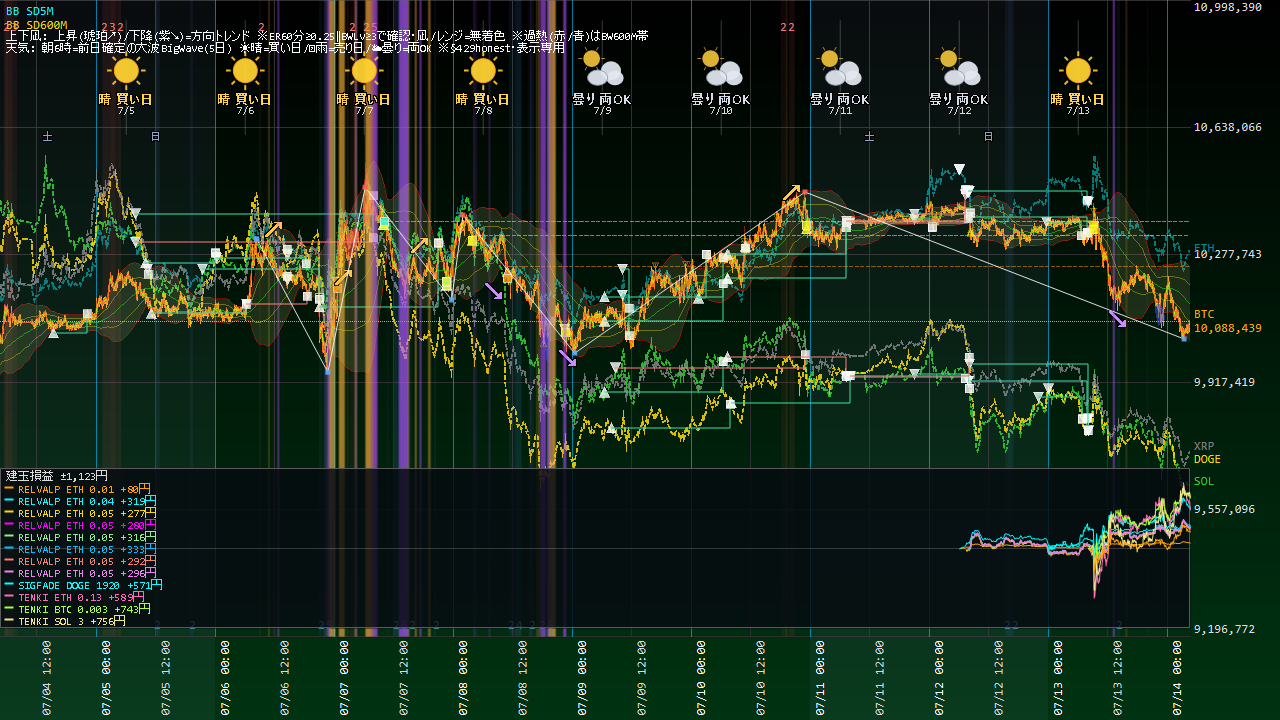
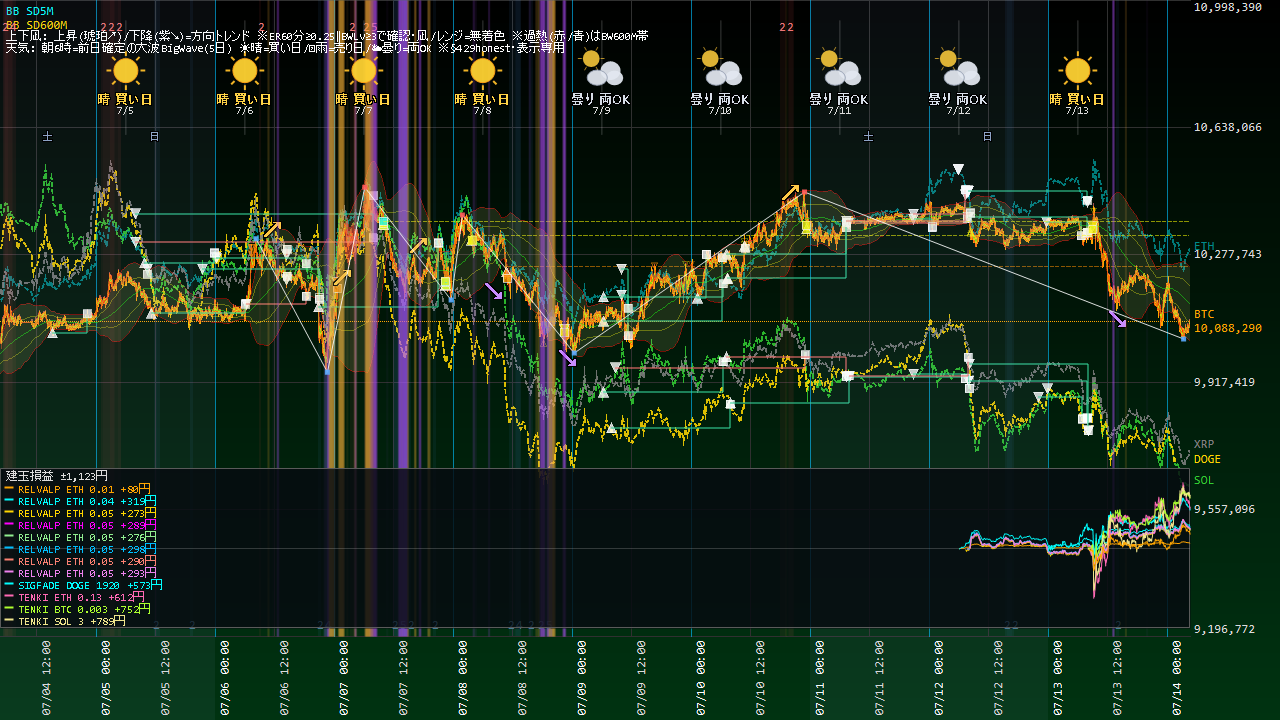
Coin100S 運用状況更新 07-14 04:47

diff --git a/coin100s-795hc4jfv8/status.html b/coin100s-795hc4jfv8/status.html
@@ -14,23 +14,23 @@ a{color:#60a5fa;text-decoration:none} a:hover{text-decoration:underline}
 .meta{color:#94a3b8;font-size:13px}</style>
 <script>setTimeout(function(){location.replace(location.pathname+"?t="+Date.now());},300000);</script></head><body>
 <h1>Coin100S 運用状況</h1>
-<p class="meta">スナップショット: 2026-07-14 04:40:49 / ページ生成: 2026-07-14 04:41:06(自動リロード・最新化) / <a href="index.html">目次へ</a></p>
+<p class="meta">スナップショット: 2026-07-14 04:46:49 / ページ生成: 2026-07-14 04:47:07(自動リロード・最新化) / <a href="index.html">目次へ</a></p>
 <div class="cards">
 <div class="card">建玉数<div class="v">13</div></div>
 <div class="card">本日損益<div class="v pos">+1,376円</div></div>
-<div class="card">評価損益<div class="v pos">+5,196円</div></div>
+<div class="card">評価損益<div class="v pos">+4,988円</div></div>
 </div>
 <h2>資産推移(直近30日)</h2>
-<img src="status_equity.png?t=0441" alt="equity">
+<img src="status_equity.png?t=0447" alt="equity">
 <h2>取引チャート(直近24h)</h2>
-<img src="status_chart.png?t=0441" alt="chart">
+<img src="status_chart.png?t=0447" alt="chart">
 <h2>建玉一覧</h2>
-<table><tr><th>銘柄</th><th>側</th><th>数量</th><th>建値</th><th>含損益</th><th>レッグ</th></tr><tr><td>BTC_JPY</td><td>SELL</td><td>0.003</td><td>@10,335,826</td><td>+754円</td><td>TENKI5D_REV_BTC</td></tr><tr><td>DOGE_JPY</td><td>SELL</td><td>1590</td><td>@12</td><td>+235円</td><td>TENKI5D_REV_DOGE</td></tr><tr><td>DOGE_JPY</td><td>SELL</td><td>1920</td><td>@12</td><td>+597円</td><td>SIGFADE_DOGE</td></tr><tr><td>ETH_JPY</td><td>SELL</td><td>0.13</td><td>@292,021</td><td>+626円</td><td>TENKI5D_REV_ETH</td></tr><tr><td>ETH_JPY</td><td>SELL</td><td>0.05</td><td>@293,174</td><td>+298円</td><td>RELVALP_SELL</td></tr><tr><td>ETH_JPY</td><td>SELL</td><td>0.05</td><td>@293,100</td><td>+295円</td><td>RELVALP_SELL</td></tr><tr><td>ETH_JPY</td><td>SELL</td><td>0.05</td><td>@293,263</td><td>+303円</td><td>RELVALP_SELL</td></tr><tr><td>ETH_JPY</td><td>SELL</td><td>0.05</td><td>@293,130</td><td>+296円</td><td>RELVALP_SELL</td></tr><tr><td>ETH_JPY</td><td>SELL</td><td>0.05</td><td>@293,082</td><td>+294円</td><td>RELVALP_SELL</td></tr><tr><td>ETH_JPY</td><td>SELL</td><td>0.05</td><td>@292,798</td><td>+279円</td><td>RELVALP_SELL</td></tr><tr><td>ETH_JPY</td><td>SELL</td><td>0.04</td><td>@295,461</td><td>+330円</td><td>RELVALP_SELL</td></tr><tr><td>ETH_JPY</td><td>SELL</td><td>0.01</td><td>@295,473</td><td>+82円</td><td>RELVALP_SELL</td></tr><tr><td>SOL_JPY</td><td>SELL</td><td>3</td><td>@12,420</td><td>+807円</td><td>TENKI5D_REV_SOL</td></tr></table>
+<table><tr><th>銘柄</th><th>側</th><th>数量</th><th>建値</th><th>含損益</th><th>レッグ</th></tr><tr><td>BTC_JPY</td><td>SELL</td><td>0.003</td><td>@10,335,826</td><td>+740円</td><td>TENKI5D_REV_BTC</td></tr><tr><td>DOGE_JPY</td><td>SELL</td><td>1590</td><td>@12</td><td>+235円</td><td>TENKI5D_REV_DOGE</td></tr><tr><td>DOGE_JPY</td><td>SELL</td><td>1920</td><td>@12</td><td>+597円</td><td>SIGFADE_DOGE</td></tr><tr><td>ETH_JPY</td><td>SELL</td><td>0.13</td><td>@292,021</td><td>+574円</td><td>TENKI5D_REV_ETH</td></tr><tr><td>ETH_JPY</td><td>SELL</td><td>0.05</td><td>@293,174</td><td>+278円</td><td>RELVALP_SELL</td></tr><tr><td>ETH_JPY</td><td>SELL</td><td>0.05</td><td>@293,100</td><td>+274円</td><td>RELVALP_SELL</td></tr><tr><td>ETH_JPY</td><td>SELL</td><td>0.05</td><td>@293,263</td><td>+283円</td><td>RELVALP_SELL</td></tr><tr><td>ETH_JPY</td><td>SELL</td><td>0.05</td><td>@293,130</td><td>+276円</td><td>RELVALP_SELL</td></tr><tr><td>ETH_JPY</td><td>SELL</td><td>0.05</td><td>@293,082</td><td>+273円</td><td>RELVALP_SELL</td></tr><tr><td>ETH_JPY</td><td>SELL</td><td>0.05</td><td>@292,798</td><td>+259円</td><td>RELVALP_SELL</td></tr><tr><td>ETH_JPY</td><td>SELL</td><td>0.04</td><td>@295,461</td><td>+314円</td><td>RELVALP_SELL</td></tr><tr><td>ETH_JPY</td><td>SELL</td><td>0.01</td><td>@295,473</td><td>+78円</td><td>RELVALP_SELL</td></tr><tr><td>SOL_JPY</td><td>SELL</td><td>3</td><td>@12,420</td><td>+807円</td><td>TENKI5D_REV_SOL</td></tr></table>
 <h2>実現決済履歴(直近15件・OrderId単位)</h2>
 <table><tr><th>決済時刻</th><th>レッグ</th><th>銘柄</th><th>実現損益</th></tr><tr><td>07-13 09:06</td><td>BW10M3_5M</td><td>BTC</td><td class="pos">+17円</td></tr><tr><td>07-13 08:12</td><td>TENKI5D_REV_DOGE</td><td>DOGE</td><td class="pos">+408円</td></tr><tr><td>07-13 08:03</td><td>TENKI5D_REV_SOL</td><td>SOL</td><td class="pos">+15円</td></tr><tr><td>07-13 08:03</td><td>TENKI5D_REV_BTC</td><td>BTC</td><td class="pos">+84円</td></tr><tr><td>07-13 08:03</td><td>TENKI5D_REV_SOL</td><td>SOL</td><td class="pos">+454円</td></tr><tr><td>07-13 08:03</td><td>TENKI5D_REV_ETH</td><td>ETH</td><td class="pos">+111円</td></tr><tr><td>07-13 08:03</td><td>TENKI5D_REV_BTC</td><td>BTC</td><td class="pos">+40円</td></tr><tr><td>07-13 07:03</td><td>SIGFADE_SOL</td><td>SOL</td><td class="pos">+169円</td></tr><tr><td>07-13 06:51</td><td>SIGFADE_BTC</td><td>BTC</td><td class="pos">+78円</td></tr><tr><td>07-12 08:25</td><td>SIGFADE_ETH</td><td>ETH</td><td class="neg">-11円</td></tr><tr><td>07-12 08:10</td><td>SIGFADE_SOL</td><td>SOL</td><td class="pos">+109円</td></tr><tr><td>07-12 08:09</td><td>TENKI5D_REV_DOGE</td><td>DOGE</td><td class="neg">-67円</td></tr><tr><td>07-12 07:55</td><td>TENKI5D_REV_BTC</td><td>BTC</td><td class="neg">-31円</td></tr><tr><td>07-12 07:27</td><td>TENKI5D_REV_ETH</td><td>ETH</td><td class="neg">-232円</td></tr><tr><td>07-12 07:26</td><td>TENKI5D_REV_SOL</td><td>SOL</td><td class="pos">+15円</td></tr></table>
 <h2>本取引日の実取引(6:00起点)</h2>
 <table><tr><th>時刻</th><th>種別</th><th>側</th><th>銘柄</th><th>数量</th><th>指値</th></tr><tr><td>06:51:04</td><td>決済</td><td>BUY</td><td>BTC_JPY</td><td>0.002</td><td>10,362,705</td></tr><tr><td>07:03:04</td><td>決済</td><td>BUY</td><td>SOL_JPY</td><td>1.8</td><td>12,464</td></tr><tr><td>07:03:05</td><td>決済</td><td>BUY</td><td>SOL_JPY</td><td>1.8</td><td>12,464</td></tr><tr><td>08:03:03</td><td>決済</td><td>BUY</td><td>BTC_JPY</td><td>0.001</td><td>10,373,001</td></tr><tr><td>08:03:03</td><td>決済</td><td>BUY</td><td>SOL_JPY</td><td>2.9</td><td>12,464</td></tr><tr><td>08:03:03</td><td>決済</td><td>BUY</td><td>ETH_JPY</td><td>0.12</td><td>293,135</td></tr><tr><td>08:03:04</td><td>決済</td><td>BUY</td><td>BTC_JPY</td><td>0.001</td><td>10,373,001</td></tr><tr><td>08:03:05</td><td>決済</td><td>BUY</td><td>BTC_JPY</td><td>0.002</td><td>10,373,038</td></tr><tr><td>08:03:05</td><td>決済</td><td>BUY</td><td>SOL_JPY</td><td>0.1</td><td>12,463</td></tr><tr><td>08:03:05</td><td>決済</td><td>BUY</td><td>ETH_JPY</td><td>0.12</td><td>293,135</td></tr><tr><td>08:03:07</td><td>決済</td><td>BUY</td><td>BTC_JPY</td><td>0.002</td><td>10,373,038</td></tr><tr><td>08:03:08</td><td>決済</td><td>BUY</td><td>SOL_JPY</td><td>0.1</td><td>12,463</td></tr><tr><td>08:04:03</td><td>新規</td><td>SELL</td><td>BTC_JPY</td><td>0.003</td><td>10,331,748</td></tr><tr><td>08:04:03</td><td>新規</td><td>SELL</td><td>ETH_JPY</td><td>0.13</td><td>291,901</td></tr><tr><td>08:04:03</td><td>新規</td><td>SELL</td><td>SOL_JPY</td><td>3</td><td>12,414</td></tr><tr><td>08:04:04</td><td>新規</td><td>SELL</td><td>ETH_JPY</td><td>0.13</td><td>291,901</td></tr><tr><td>08:04:05</td><td>新規</td><td>SELL</td><td>SOL_JPY</td><td>3</td><td>12,414</td></tr><tr><td>08:12:03</td><td>決済</td><td>BUY</td><td>DOGE_JPY</td><td>1570</td><td>12</td></tr><tr><td>08:13:03</td><td>新規</td><td>SELL</td><td>DOGE_JPY</td><td>1590</td><td>11</td></tr><tr><td>09:05:34</td><td>新規</td><td>SELL</td><td>BTC_JPY</td><td>0.002</td><td>10,349,629</td></tr><tr><td>09:05:36</td><td>新規</td><td>SELL</td><td>BTC_JPY</td><td>0.002</td><td>10,349,629</td></tr></table>
 <h2>現在レジーム(3軸・§570c)</h2>
-<ul><li>アルト対BTC 5日: <b>-218bps</b>(アルト劣後=RELVAL順風)</li><li>BTC ER240m: <b>0.077</b>(閾値0.25→レンジ(fade順風/BWTRD逆風))</li><li>BTC実現ボラ240m: <b>4.73</b> bps/分</li></ul>
+<ul><li>アルト対BTC 5日: <b>-218bps</b>(アルト劣後=RELVAL順風)</li><li>BTC ER240m: <b>0.082</b>(閾値0.25→レンジ(fade順風/BWTRD逆風))</li><li>BTC実現ボラ240m: <b>4.68</b> bps/分</li></ul>
 <hr><p class="meta">自動生成: tools/web_publish.py(§580・読み取り専用)。売買判断はアプリ本体。</p>
 </body></html>

diff --git a/coin100s-795hc4jfv8/index.html b/coin100s-795hc4jfv8/index.html
@@ -14,16 +14,16 @@ a{color:#60a5fa;text-decoration:none} a:hover{text-decoration:underline}
 .meta{color:#94a3b8;font-size:13px}</style>
 <script>setTimeout(function(){location.replace(location.pathname+"?t="+Date.now());},300000);</script></head><body>
 <h1>Coin100S ダッシュボード</h1>
-<p class="meta">スナップショット: 2026-07-14 04:40:49(自動リロード・最新化)</p>
+<p class="meta">スナップショット: 2026-07-14 04:46:49(自動リロード・最新化)</p>
 <div class="cards">
 <div class="card">建玉数<div class="v">13</div></div>
 <div class="card">本日損益<div class="v pos">+1,376円</div></div>
-<div class="card">評価損益<div class="v pos">+5,196円</div></div>
+<div class="card">評価損益<div class="v pos">+4,988円</div></div>
 </div>
 <h2>現在の建玉</h2>
-<table><tr><th>銘柄</th><th>側</th><th>数量</th><th>建値</th><th>含損益</th><th>レッグ</th></tr><tr><td>BTC_JPY</td><td>SELL</td><td>0.003</td><td>@10,335,826</td><td>+754円</td><td>TENKI5D_REV_BTC</td></tr><tr><td>DOGE_JPY</td><td>SELL</td><td>1590</td><td>@12</td><td>+235円</td><td>TENKI5D_REV_DOGE</td></tr><tr><td>DOGE_JPY</td><td>SELL</td><td>1920</td><td>@12</td><td>+597円</td><td>SIGFADE_DOGE</td></tr><tr><td>ETH_JPY</td><td>SELL</td><td>0.13</td><td>@292,021</td><td>+626円</td><td>TENKI5D_REV_ETH</td></tr><tr><td>ETH_JPY</td><td>SELL</td><td>0.05</td><td>@293,174</td><td>+298円</td><td>RELVALP_SELL</td></tr><tr><td>ETH_JPY</td><td>SELL</td><td>0.05</td><td>@293,100</td><td>+295円</td><td>RELVALP_SELL</td></tr><tr><td>ETH_JPY</td><td>SELL</td><td>0.05</td><td>@293,263</td><td>+303円</td><td>RELVALP_SELL</td></tr><tr><td>ETH_JPY</td><td>SELL</td><td>0.05</td><td>@293,130</td><td>+296円</td><td>RELVALP_SELL</td></tr><tr><td>ETH_JPY</td><td>SELL</td><td>0.05</td><td>@293,082</td><td>+294円</td><td>RELVALP_SELL</td></tr><tr><td>ETH_JPY</td><td>SELL</td><td>0.05</td><td>@292,798</td><td>+279円</td><td>RELVALP_SELL</td></tr><tr><td>ETH_JPY</td><td>SELL</td><td>0.04</td><td>@295,461</td><td>+330円</td><td>RELVALP_SELL</td></tr><tr><td>ETH_JPY</td><td>SELL</td><td>0.01</td><td>@295,473</td><td>+82円</td><td>RELVALP_SELL</td></tr><tr><td>SOL_JPY</td><td>SELL</td><td>3</td><td>@12,420</td><td>+807円</td><td>TENKI5D_REV_SOL</td></tr></table>
+<table><tr><th>銘柄</th><th>側</th><th>数量</th><th>建値</th><th>含損益</th><th>レッグ</th></tr><tr><td>BTC_JPY</td><td>SELL</td><td>0.003</td><td>@10,335,826</td><td>+740円</td><td>TENKI5D_REV_BTC</td></tr><tr><td>DOGE_JPY</td><td>SELL</td><td>1590</td><td>@12</td><td>+235円</td><td>TENKI5D_REV_DOGE</td></tr><tr><td>DOGE_JPY</td><td>SELL</td><td>1920</td><td>@12</td><td>+597円</td><td>SIGFADE_DOGE</td></tr><tr><td>ETH_JPY</td><td>SELL</td><td>0.13</td><td>@292,021</td><td>+574円</td><td>TENKI5D_REV_ETH</td></tr><tr><td>ETH_JPY</td><td>SELL</td><td>0.05</td><td>@293,174</td><td>+278円</td><td>RELVALP_SELL</td></tr><tr><td>ETH_JPY</td><td>SELL</td><td>0.05</td><td>@293,100</td><td>+274円</td><td>RELVALP_SELL</td></tr><tr><td>ETH_JPY</td><td>SELL</td><td>0.05</td><td>@293,263</td><td>+283円</td><td>RELVALP_SELL</td></tr><tr><td>ETH_JPY</td><td>SELL</td><td>0.05</td><td>@293,130</td><td>+276円</td><td>RELVALP_SELL</td></tr><tr><td>ETH_JPY</td><td>SELL</td><td>0.05</td><td>@293,082</td><td>+273円</td><td>RELVALP_SELL</td></tr><tr><td>ETH_JPY</td><td>SELL</td><td>0.05</td><td>@292,798</td><td>+259円</td><td>RELVALP_SELL</td></tr><tr><td>ETH_JPY</td><td>SELL</td><td>0.04</td><td>@295,461</td><td>+314円</td><td>RELVALP_SELL</td></tr><tr><td>ETH_JPY</td><td>SELL</td><td>0.01</td><td>@295,473</td><td>+78円</td><td>RELVALP_SELL</td></tr><tr><td>SOL_JPY</td><td>SELL</td><td>3</td><td>@12,420</td><td>+807円</td><td>TENKI5D_REV_SOL</td></tr></table>
 <p><a href="status.html"><b>▶ 運用状況の詳細(チャート・本日の取引・レジーム)</b></a></p>
 <h2>日報一覧</h2>
 <table><tr><th>取引日</th><th>実現損益</th><th>総括</th></tr><tr><td><a href='reports/20260712_Coin100S日報.html'>2026-07-12</a></td><td class="pos">+0円</td><td class='meta'>実取引: 新規14件/決済6件、実現損益 +0円。シグナル却下5件（最多: BW10M3_5M／トレンド方向ゲート(N分傾き下と不一致=逆張り方向のfade禁止)）。⚠警告/エラー 2件（要確認）。</td></tr><tr><td><a href='reports/20260711_Coin100S日報.html'>2026-07-11</a></td><td class="pos">+0円</td><td class='meta'>実取引: 新規7件/決済6件、実現損益 +0円。⚠警告/エラー 52件（要確認）。</td></tr><tr><td><a href='reports/20260710_Coin100S日報.html'>2026-07-10</a></td><td class="pos">+0円</td><td class='meta'>実取引: 新規7件/決済6件、実現損益 +0円。シグナル却下6件（最多: BW10M3_5M／トレンド方向ゲート(N分傾き上と不一致=逆張り方向のfade禁止)）。警告/孤児/エラーなし＝健全。</td></tr><tr><td><a href='reports/20260709_Coin100S日報.html'>2026-07-09</a></td><td class="pos">+0円</td><td class='meta'>実取引: 新規8件/決済3件、実現損益 +0円。シグナル却下5件（最多: SD120M_5M／トレンド方向ゲート(N分傾き上と不一致=逆張り方向のfade禁止)）。警告/孤児/エラーなし＝健全。</td></tr><tr><td><a href='reports/20260708_Coin100S日報.html'>2026-07-08</a></td><td class="pos">+0円</td><td class='meta'>実取引: 新規2件/決済4件、実現損益 +0円。シグナル却下4件（最多: SD120M_5M／トレンド方向ゲート(N分傾き下と不一致=逆張り方向のfade禁止)）。警告/孤児/エラーなし＝健全。</td></tr><tr><td><a href='reports/20260707_Coin100S日報.html'>2026-07-07</a></td><td class="pos">+0円</td><td class='meta'>実取引: 新規8件/決済6件、実現損益 +0円。シグナル却下4件（最多: SD120M_5M／トレンド方向ゲート(N分傾き上と不一致=逆張り方向のfade禁止)）。⚠警告/エラー 258件（要確認）。</td></tr><tr><td><a href='reports/20260706_Coin100S日報.html'>2026-07-06</a></td><td class="pos">+0円</td><td class='meta'>実取引: 新規9件/決済6件、実現損益 +0円。シグナル却下9件（最多: SD120M_5M／トレンド方向ゲート(N分傾き上と不一致=逆張り方向のfade禁止)）。⚠警告/エラー 150件（要確認）。</td></tr><tr><td><a href='reports/20260705_Coin100S日報.html'>2026-07-05</a></td><td class="pos">+0円</td><td class='meta'>実取引: 新規8件/決済3件、実現損益 +0円。⚠警告/エラー 2件（要確認）。</td></tr><tr><td><a href='reports/20260704_Coin100S日報.html'>2026-07-04</a></td><td class="pos">+0円</td><td class='meta'>実取引: 新規1件/決済2件、実現損益 +0円。⚠警告/エラー 2件（要確認）。</td></tr><tr><td><a href='reports/20260703_Coin100S日報.html'>2026-07-03</a></td><td class="pos">+0円</td><td class='meta'>実取引: 新規5件/決済4件、実現損益 +0円。⚠警告/エラー 15件（要確認）。</td></tr><tr><td><a href='reports/20260702_Coin100S日報.html'>2026-07-02</a></td><td class="pos">+0円</td><td class='meta'>実取引: 新規7件/決済5件、実現損益 +0円。シグナル却下17件（最多: SD120M_5M／トレンド方向ゲート(N分傾き上と不一致=逆張り方向のfade禁止)）。⚠警告/エラー 26件（要確認）。</td></tr><tr><td><a href='reports/20260701_Coin100S日報.html'>2026-07-01</a></td><td class="pos">+0円</td><td class='meta'>実取引: 新規14件/決済8件、実現損益 +0円。シグナル却下14件（最多: SD120M_5M／ボラ軸ゲート(SDN%&amp;gt;N%=高ボラ/荒れレンジ)）。⚠警告/エラー 2件（要確認）。</td></tr><tr><td><a href='reports/20260630_Coin100S日報.html'>2026-06-30</a></td><td class="pos">+0円</td><td class='meta'>実取引: 新規0件/決済1件、実現損益 +0円。シグナル却下29件（最多: 微5M／当日枠N）。警告/孤児/エラーなし＝健全。</td></tr></table>
-<hr><p class="meta">更新: 2026-07-14 04:41:06 / 自動生成: tools/web_publish.py(§580)</p>
+<hr><p class="meta">更新: 2026-07-14 04:47:07 / 自動生成: tools/web_publish.py(§580)</p>
 </body></html>
